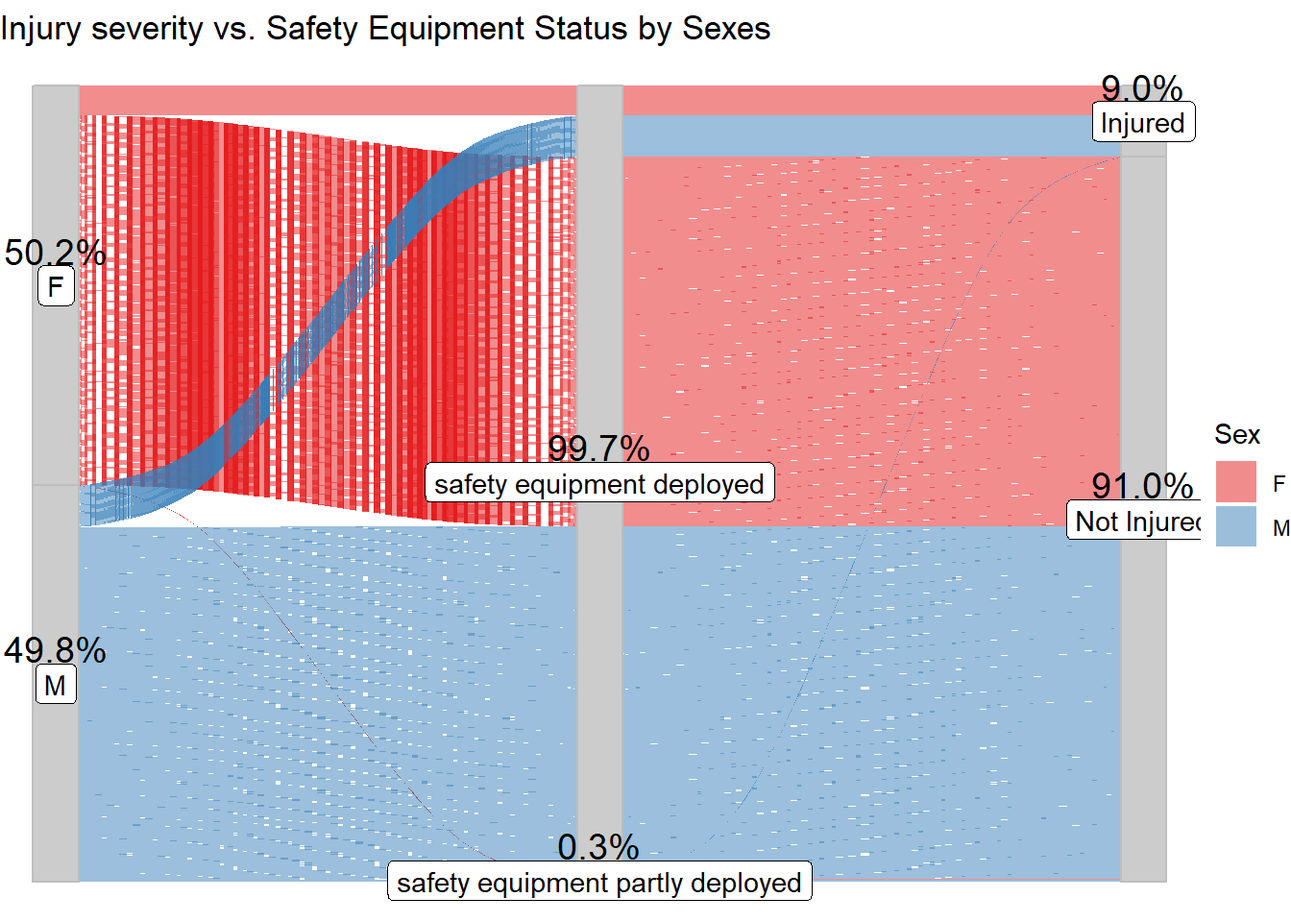
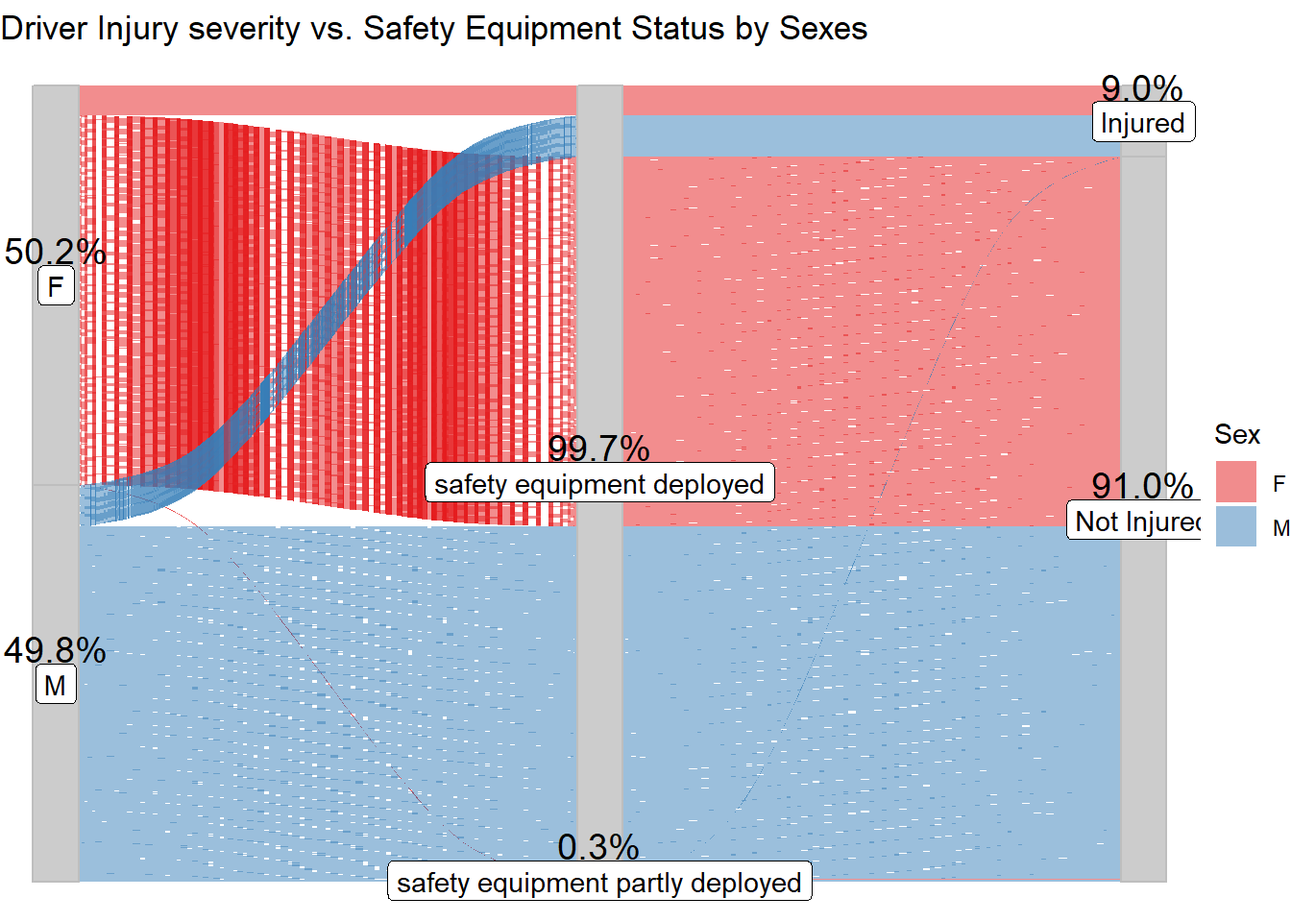
final!

diff --git a/docs/missing-values.html b/docs/missing-values.html
@@ -82,14 +82,14 @@
 <li class="chapter" data-level="3.2" data-path="data-transformation.html"><a href="data-transformation.html#unify-missing-values"><i class="fa fa-check"></i><b>3.2</b> Unify Missing Values</a></li>
 </ul></li>
 <li class="chapter" data-level="4" data-path="missing-values.html"><a href="missing-values.html"><i class="fa fa-check"></i><b>4</b> Missing values</a><ul>
-<li class="chapter" data-level="4.1" data-path="missing-values.html"><a href="missing-values.html#vehicle"><i class="fa fa-check"></i><b>4.1</b> Vehicle</a></li>
-<li class="chapter" data-level="4.2" data-path="missing-values.html"><a href="missing-values.html#case"><i class="fa fa-check"></i><b>4.2</b> Case</a></li>
-<li class="chapter" data-level="4.3" data-path="missing-values.html"><a href="missing-values.html#individual"><i class="fa fa-check"></i><b>4.3</b> Individual</a></li>
+<li class="chapter" data-level="4.1" data-path="missing-values.html"><a href="missing-values.html#aspect-of-accident-vehicles"><i class="fa fa-check"></i><b>4.1</b> Aspect of Accident Vehicles</a></li>
+<li class="chapter" data-level="4.2" data-path="missing-values.html"><a href="missing-values.html#aspect-of-accident-cases"><i class="fa fa-check"></i><b>4.2</b> Aspect of Accident Cases</a></li>
+<li class="chapter" data-level="4.3" data-path="missing-values.html"><a href="missing-values.html#aspect-of-individuals-in-accidents"><i class="fa fa-check"></i><b>4.3</b> Aspect of Individuals in Accidents</a></li>
 </ul></li>
 <li class="chapter" data-level="5" data-path="results.html"><a href="results.html"><i class="fa fa-check"></i><b>5</b> Results</a><ul>
-<li class="chapter" data-level="5.1" data-path="results.html"><a href="results.html#vehicles"><i class="fa fa-check"></i><b>5.1</b> Vehicles</a></li>
-<li class="chapter" data-level="5.2" data-path="results.html"><a href="results.html#case-1"><i class="fa fa-check"></i><b>5.2</b> Case</a></li>
-<li class="chapter" data-level="5.3" data-path="results.html"><a href="results.html#individual-1"><i class="fa fa-check"></i><b>5.3</b> Individual</a></li>
+<li class="chapter" data-level="5.1" data-path="results.html"><a href="results.html#aspect-of-accident-vehicles-1"><i class="fa fa-check"></i><b>5.1</b> Aspect of Accident Vehicles</a></li>
+<li class="chapter" data-level="5.2" data-path="results.html"><a href="results.html#aspect-of-accident-cases-1"><i class="fa fa-check"></i><b>5.2</b> Aspect of Accident Cases</a></li>
+<li class="chapter" data-level="5.3" data-path="results.html"><a href="results.html#aspect-of-individuals-in-accidents-1"><i class="fa fa-check"></i><b>5.3</b> Aspect of Individuals in Accidents</a></li>
 </ul></li>
 <li class="chapter" data-level="6" data-path="interactive-component.html"><a href="interactive-component.html"><i class="fa fa-check"></i><b>6</b> Interactive component</a><ul>
 <li class="chapter" data-level="6.1" data-path="interactive-component.html"><a href="interactive-component.html#up-and-down-trend-of-monthly-number-of-accidents-in-new-york-state"><i class="fa fa-check"></i><b>6.1</b> Up-and-Down Trend of Monthly Number of Accidents in New York State</a></li>
@@ -125,19 +125,19 @@
 <div id="missing-values" class="section level1">
 <h1><span class="header-section-number">Chapter 4</span> Missing values</h1>
 <p>Since we have three datasets and they do not have a common key attribute for us to merge them together, we decided to visualize the missing values in three seperate graphs.</p>
-<div id="vehicle" class="section level2">
-<h2><span class="header-section-number">4.1</span> Vehicle</h2>
+<div id="aspect-of-accident-vehicles" class="section level2">
+<h2><span class="header-section-number">4.1</span> Aspect of Accident Vehicles</h2>
 <p><img src="finalproj_files/figure-html/unnamed-chunk-17-1.png" width="672" /></p>
 <p>In this dataset, “Type/Axles of Truck or Bus” has all missing values in the column. “Event Type” and “Contributing Factor 1&amp;2 Descriptions” also have many missing values. The other variables contain far less missing values.</p>
 </div>
-<div id="case" class="section level2">
-<h2><span class="header-section-number">4.2</span> Case</h2>
+<div id="aspect-of-accident-cases" class="section level2">
+<h2><span class="header-section-number">4.2</span> Aspect of Accident Cases</h2>
 <p><img src="finalproj_files/figure-html/unnamed-chunk-20-1.png" width="672" /></p>
 <p>In this dataset, We had 18 variables in total and we dropped 2 of them. The majority of “DOT.Reference.Marker.Location” are missing values and the “Pedestrian.Bicyclist.Action” contains a lot of “Not Applicable” values which cannot offer the information we want.</p>
 <p>After transformation and cleaning of the dataset, we got the final data for visualization use.</p>
 </div>
-<div id="individual" class="section level2">
-<h2><span class="header-section-number">4.3</span> Individual</h2>
+<div id="aspect-of-individuals-in-accidents" class="section level2">
+<h2><span class="header-section-number">4.3</span> Aspect of Individuals in Accidents</h2>
 <p><img src="finalproj_files/figure-html/unnamed-chunk-23-1.png" width="672" /></p>
 <p>In this dataset, we have 15 variables in total. “Transported_by”, “Injury Location”, “Victim Status” and “Injury Description” have high percent of missing data within the variable.</p>
 

diff --git a/docs/results.html b/docs/results.html
@@ -82,14 +82,14 @@
 <li class="chapter" data-level="3.2" data-path="data-transformation.html"><a href="data-transformation.html#unify-missing-values"><i class="fa fa-check"></i><b>3.2</b> Unify Missing Values</a></li>
 </ul></li>
 <li class="chapter" data-level="4" data-path="missing-values.html"><a href="missing-values.html"><i class="fa fa-check"></i><b>4</b> Missing values</a><ul>
-<li class="chapter" data-level="4.1" data-path="missing-values.html"><a href="missing-values.html#vehicle"><i class="fa fa-check"></i><b>4.1</b> Vehicle</a></li>
-<li class="chapter" data-level="4.2" data-path="missing-values.html"><a href="missing-values.html#case"><i class="fa fa-check"></i><b>4.2</b> Case</a></li>
-<li class="chapter" data-level="4.3" data-path="missing-values.html"><a href="missing-values.html#individual"><i class="fa fa-check"></i><b>4.3</b> Individual</a></li>
+<li class="chapter" data-level="4.1" data-path="missing-values.html"><a href="missing-values.html#aspect-of-accident-vehicles"><i class="fa fa-check"></i><b>4.1</b> Aspect of Accident Vehicles</a></li>
+<li class="chapter" data-level="4.2" data-path="missing-values.html"><a href="missing-values.html#aspect-of-accident-cases"><i class="fa fa-check"></i><b>4.2</b> Aspect of Accident Cases</a></li>
+<li class="chapter" data-level="4.3" data-path="missing-values.html"><a href="missing-values.html#aspect-of-individuals-in-accidents"><i class="fa fa-check"></i><b>4.3</b> Aspect of Individuals in Accidents</a></li>
 </ul></li>
 <li class="chapter" data-level="5" data-path="results.html"><a href="results.html"><i class="fa fa-check"></i><b>5</b> Results</a><ul>
-<li class="chapter" data-level="5.1" data-path="results.html"><a href="results.html#vehicles"><i class="fa fa-check"></i><b>5.1</b> Vehicles</a></li>
-<li class="chapter" data-level="5.2" data-path="results.html"><a href="results.html#case-1"><i class="fa fa-check"></i><b>5.2</b> Case</a></li>
-<li class="chapter" data-level="5.3" data-path="results.html"><a href="results.html#individual-1"><i class="fa fa-check"></i><b>5.3</b> Individual</a></li>
+<li class="chapter" data-level="5.1" data-path="results.html"><a href="results.html#aspect-of-accident-vehicles-1"><i class="fa fa-check"></i><b>5.1</b> Aspect of Accident Vehicles</a></li>
+<li class="chapter" data-level="5.2" data-path="results.html"><a href="results.html#aspect-of-accident-cases-1"><i class="fa fa-check"></i><b>5.2</b> Aspect of Accident Cases</a></li>
+<li class="chapter" data-level="5.3" data-path="results.html"><a href="results.html#aspect-of-individuals-in-accidents-1"><i class="fa fa-check"></i><b>5.3</b> Aspect of Individuals in Accidents</a></li>
 </ul></li>
 <li class="chapter" data-level="6" data-path="interactive-component.html"><a href="interactive-component.html"><i class="fa fa-check"></i><b>6</b> Interactive component</a><ul>
 <li class="chapter" data-level="6.1" data-path="interactive-component.html"><a href="interactive-component.html#up-and-down-trend-of-monthly-number-of-accidents-in-new-york-state"><i class="fa fa-check"></i><b>6.1</b> Up-and-Down Trend of Monthly Number of Accidents in New York State</a></li>
@@ -125,8 +125,8 @@
 <div id="results" class="section level1">
 <h1><span class="header-section-number">Chapter 5</span> Results</h1>
 <p>In this part, we will show our EDA results in three categories related to vehicles involved in accidents, cases information and individuals in accidents.</p>
-<div id="vehicles" class="section level2">
-<h2><span class="header-section-number">5.1</span> Vehicles</h2>
+<div id="aspect-of-accident-vehicles-1" class="section level2">
+<h2><span class="header-section-number">5.1</span> Aspect of Accident Vehicles</h2>
 <p><img src="finalproj_files/figure-html/unnamed-chunk-27-1.png" width="672" /></p>
 <p>From this plot, we can see:</p>
 <ul>
@@ -170,8 +170,8 @@ From this plot, we can see:</p>
 <li>There are a few cars with “5 Engine Cylinder” involved in accidents.</li>
 </ul>
 </div>
-<div id="case-1" class="section level2">
-<h2><span class="header-section-number">5.2</span> Case</h2>
+<div id="aspect-of-accident-cases-1" class="section level2">
+<h2><span class="header-section-number">5.2</span> Aspect of Accident Cases</h2>
 <p><img src="finalproj_files/figure-html/unnamed-chunk-32-1.png" width="672" /></p>
 <p>For the case data, we looked into the count of different types of accidents at first. We can see apparently from the bar plot that:</p>
 <ul>
@@ -213,8 +213,8 @@ From this plot, we can see:</p>
 <li>When the road is on “Hill Crest”, there are only a few accidents. Of course there are much less these road types. However, on hill crest, drivers are also drive more carefully than usual.</li>
 </ul>
 </div>
-<div id="individual-1" class="section level2">
-<h2><span class="header-section-number">5.3</span> Individual</h2>
+<div id="aspect-of-individuals-in-accidents-1" class="section level2">
+<h2><span class="header-section-number">5.3</span> Aspect of Individuals in Accidents</h2>
 <p><img src="finalproj_files/figure-html/unnamed-chunk-37-1.png" width="672" /></p>
 <p>From this plot, we can see that:</p>
 <ul>

diff --git a/docs/data-sources.html b/docs/data-sources.html
@@ -82,14 +82,14 @@
 <li class="chapter" data-level="3.2" data-path="data-transformation.html"><a href="data-transformation.html#unify-missing-values"><i class="fa fa-check"></i><b>3.2</b> Unify Missing Values</a></li>
 </ul></li>
 <li class="chapter" data-level="4" data-path="missing-values.html"><a href="missing-values.html"><i class="fa fa-check"></i><b>4</b> Missing values</a><ul>
-<li class="chapter" data-level="4.1" data-path="missing-values.html"><a href="missing-values.html#vehicle"><i class="fa fa-check"></i><b>4.1</b> Vehicle</a></li>
-<li class="chapter" data-level="4.2" data-path="missing-values.html"><a href="missing-values.html#case"><i class="fa fa-check"></i><b>4.2</b> Case</a></li>
-<li class="chapter" data-level="4.3" data-path="missing-values.html"><a href="missing-values.html#individual"><i class="fa fa-check"></i><b>4.3</b> Individual</a></li>
+<li class="chapter" data-level="4.1" data-path="missing-values.html"><a href="missing-values.html#aspect-of-accident-vehicles"><i class="fa fa-check"></i><b>4.1</b> Aspect of Accident Vehicles</a></li>
+<li class="chapter" data-level="4.2" data-path="missing-values.html"><a href="missing-values.html#aspect-of-accident-cases"><i class="fa fa-check"></i><b>4.2</b> Aspect of Accident Cases</a></li>
+<li class="chapter" data-level="4.3" data-path="missing-values.html"><a href="missing-values.html#aspect-of-individuals-in-accidents"><i class="fa fa-check"></i><b>4.3</b> Aspect of Individuals in Accidents</a></li>
 </ul></li>
 <li class="chapter" data-level="5" data-path="results.html"><a href="results.html"><i class="fa fa-check"></i><b>5</b> Results</a><ul>
-<li class="chapter" data-level="5.1" data-path="results.html"><a href="results.html#vehicles"><i class="fa fa-check"></i><b>5.1</b> Vehicles</a></li>
-<li class="chapter" data-level="5.2" data-path="results.html"><a href="results.html#case-1"><i class="fa fa-check"></i><b>5.2</b> Case</a></li>
-<li class="chapter" data-level="5.3" data-path="results.html"><a href="results.html#individual-1"><i class="fa fa-check"></i><b>5.3</b> Individual</a></li>
+<li class="chapter" data-level="5.1" data-path="results.html"><a href="results.html#aspect-of-accident-vehicles-1"><i class="fa fa-check"></i><b>5.1</b> Aspect of Accident Vehicles</a></li>
+<li class="chapter" data-level="5.2" data-path="results.html"><a href="results.html#aspect-of-accident-cases-1"><i class="fa fa-check"></i><b>5.2</b> Aspect of Accident Cases</a></li>
+<li class="chapter" data-level="5.3" data-path="results.html"><a href="results.html#aspect-of-individuals-in-accidents-1"><i class="fa fa-check"></i><b>5.3</b> Aspect of Individuals in Accidents</a></li>
 </ul></li>
 <li class="chapter" data-level="6" data-path="interactive-component.html"><a href="interactive-component.html"><i class="fa fa-check"></i><b>6</b> Interactive component</a><ul>
 <li class="chapter" data-level="6.1" data-path="interactive-component.html"><a href="interactive-component.html#up-and-down-trend-of-monthly-number-of-accidents-in-new-york-state"><i class="fa fa-check"></i><b>6.1</b> Up-and-Down Trend of Monthly Number of Accidents in New York State</a></li>
@@ -183,11 +183,11 @@ However, some variable have large amount of missing values, which cause some tro
 2. Any environmental factors (weather condition, road surface, lighting condition) related to accidents?</p>
 <p>About Drivers:
 1. Association between Injured severity and safety equipment?
-2. Association between Injured severity and seating position?</p>
+2. Association between Injured severity and sexes?</p>
 <p>About Vehicle:
 1. Relationship between number of accidents and Vehicle year?
-2. Relationship between number of accidents and number of occupants?
-3. Relationship between number of accidents and number of vehicle cylinder?</p>
+2. Relationship between number of accidents and number of vehicle cylinder?</p>
+<p><strong>More specific questions are explored in the EDA part.</strong></p>
 <p>The original data contains more than 800,000 samples each. For the convenience of later use, we did some random sampling. Before diving into the visualization work, we found some potential problems around the our data. Firstly, there are some misssing values in the data. Secondly, we need to select some variales that contribute the most to car crashes. Lastly, since most of our variables are categorical, we need to find better methods for visualization.</p>
 
 </div>

diff --git a/docs/conclusion.html b/docs/conclusion.html
@@ -82,14 +82,14 @@
 <li class="chapter" data-level="3.2" data-path="data-transformation.html"><a href="data-transformation.html#unify-missing-values"><i class="fa fa-check"></i><b>3.2</b> Unify Missing Values</a></li>
 </ul></li>
 <li class="chapter" data-level="4" data-path="missing-values.html"><a href="missing-values.html"><i class="fa fa-check"></i><b>4</b> Missing values</a><ul>
-<li class="chapter" data-level="4.1" data-path="missing-values.html"><a href="missing-values.html#vehicle"><i class="fa fa-check"></i><b>4.1</b> Vehicle</a></li>
-<li class="chapter" data-level="4.2" data-path="missing-values.html"><a href="missing-values.html#case"><i class="fa fa-check"></i><b>4.2</b> Case</a></li>
-<li class="chapter" data-level="4.3" data-path="missing-values.html"><a href="missing-values.html#individual"><i class="fa fa-check"></i><b>4.3</b> Individual</a></li>
+<li class="chapter" data-level="4.1" data-path="missing-values.html"><a href="missing-values.html#aspect-of-accident-vehicles"><i class="fa fa-check"></i><b>4.1</b> Aspect of Accident Vehicles</a></li>
+<li class="chapter" data-level="4.2" data-path="missing-values.html"><a href="missing-values.html#aspect-of-accident-cases"><i class="fa fa-check"></i><b>4.2</b> Aspect of Accident Cases</a></li>
+<li class="chapter" data-level="4.3" data-path="missing-values.html"><a href="missing-values.html#aspect-of-individuals-in-accidents"><i class="fa fa-check"></i><b>4.3</b> Aspect of Individuals in Accidents</a></li>
 </ul></li>
 <li class="chapter" data-level="5" data-path="results.html"><a href="results.html"><i class="fa fa-check"></i><b>5</b> Results</a><ul>
-<li class="chapter" data-level="5.1" data-path="results.html"><a href="results.html#vehicles"><i class="fa fa-check"></i><b>5.1</b> Vehicles</a></li>
-<li class="chapter" data-level="5.2" data-path="results.html"><a href="results.html#case-1"><i class="fa fa-check"></i><b>5.2</b> Case</a></li>
-<li class="chapter" data-level="5.3" data-path="results.html"><a href="results.html#individual-1"><i class="fa fa-check"></i><b>5.3</b> Individual</a></li>
+<li class="chapter" data-level="5.1" data-path="results.html"><a href="results.html#aspect-of-accident-vehicles-1"><i class="fa fa-check"></i><b>5.1</b> Aspect of Accident Vehicles</a></li>
+<li class="chapter" data-level="5.2" data-path="results.html"><a href="results.html#aspect-of-accident-cases-1"><i class="fa fa-check"></i><b>5.2</b> Aspect of Accident Cases</a></li>
+<li class="chapter" data-level="5.3" data-path="results.html"><a href="results.html#aspect-of-individuals-in-accidents-1"><i class="fa fa-check"></i><b>5.3</b> Aspect of Individuals in Accidents</a></li>
 </ul></li>
 <li class="chapter" data-level="6" data-path="interactive-component.html"><a href="interactive-component.html"><i class="fa fa-check"></i><b>6</b> Interactive component</a><ul>
 <li class="chapter" data-level="6.1" data-path="interactive-component.html"><a href="interactive-component.html#up-and-down-trend-of-monthly-number-of-accidents-in-new-york-state"><i class="fa fa-check"></i><b>6.1</b> Up-and-Down Trend of Monthly Number of Accidents in New York State</a></li>

diff --git a/docs/data-transformation.html b/docs/data-transformation.html
@@ -82,14 +82,14 @@
 <li class="chapter" data-level="3.2" data-path="data-transformation.html"><a href="data-transformation.html#unify-missing-values"><i class="fa fa-check"></i><b>3.2</b> Unify Missing Values</a></li>
 </ul></li>
 <li class="chapter" data-level="4" data-path="missing-values.html"><a href="missing-values.html"><i class="fa fa-check"></i><b>4</b> Missing values</a><ul>
-<li class="chapter" data-level="4.1" data-path="missing-values.html"><a href="missing-values.html#vehicle"><i class="fa fa-check"></i><b>4.1</b> Vehicle</a></li>
-<li class="chapter" data-level="4.2" data-path="missing-values.html"><a href="missing-values.html#case"><i class="fa fa-check"></i><b>4.2</b> Case</a></li>
-<li class="chapter" data-level="4.3" data-path="missing-values.html"><a href="missing-values.html#individual"><i class="fa fa-check"></i><b>4.3</b> Individual</a></li>
+<li class="chapter" data-level="4.1" data-path="missing-values.html"><a href="missing-values.html#aspect-of-accident-vehicles"><i class="fa fa-check"></i><b>4.1</b> Aspect of Accident Vehicles</a></li>
+<li class="chapter" data-level="4.2" data-path="missing-values.html"><a href="missing-values.html#aspect-of-accident-cases"><i class="fa fa-check"></i><b>4.2</b> Aspect of Accident Cases</a></li>
+<li class="chapter" data-level="4.3" data-path="missing-values.html"><a href="missing-values.html#aspect-of-individuals-in-accidents"><i class="fa fa-check"></i><b>4.3</b> Aspect of Individuals in Accidents</a></li>
 </ul></li>
 <li class="chapter" data-level="5" data-path="results.html"><a href="results.html"><i class="fa fa-check"></i><b>5</b> Results</a><ul>
-<li class="chapter" data-level="5.1" data-path="results.html"><a href="results.html#vehicles"><i class="fa fa-check"></i><b>5.1</b> Vehicles</a></li>
-<li class="chapter" data-level="5.2" data-path="results.html"><a href="results.html#case-1"><i class="fa fa-check"></i><b>5.2</b> Case</a></li>
-<li class="chapter" data-level="5.3" data-path="results.html"><a href="results.html#individual-1"><i class="fa fa-check"></i><b>5.3</b> Individual</a></li>
+<li class="chapter" data-level="5.1" data-path="results.html"><a href="results.html#aspect-of-accident-vehicles-1"><i class="fa fa-check"></i><b>5.1</b> Aspect of Accident Vehicles</a></li>
+<li class="chapter" data-level="5.2" data-path="results.html"><a href="results.html#aspect-of-accident-cases-1"><i class="fa fa-check"></i><b>5.2</b> Aspect of Accident Cases</a></li>
+<li class="chapter" data-level="5.3" data-path="results.html"><a href="results.html#aspect-of-individuals-in-accidents-1"><i class="fa fa-check"></i><b>5.3</b> Aspect of Individuals in Accidents</a></li>
 </ul></li>
 <li class="chapter" data-level="6" data-path="interactive-component.html"><a href="interactive-component.html"><i class="fa fa-check"></i><b>6</b> Interactive component</a><ul>
 <li class="chapter" data-level="6.1" data-path="interactive-component.html"><a href="interactive-component.html#up-and-down-trend-of-monthly-number-of-accidents-in-new-york-state"><i class="fa fa-check"></i><b>6.1</b> Up-and-Down Trend of Monthly Number of Accidents in New York State</a></li>

diff --git a/docs/index.html b/docs/index.html
@@ -82,14 +82,14 @@
 <li class="chapter" data-level="3.2" data-path="data-transformation.html"><a href="data-transformation.html#unify-missing-values"><i class="fa fa-check"></i><b>3.2</b> Unify Missing Values</a></li>
 </ul></li>
 <li class="chapter" data-level="4" data-path="missing-values.html"><a href="missing-values.html"><i class="fa fa-check"></i><b>4</b> Missing values</a><ul>
-<li class="chapter" data-level="4.1" data-path="missing-values.html"><a href="missing-values.html#vehicle"><i class="fa fa-check"></i><b>4.1</b> Vehicle</a></li>
-<li class="chapter" data-level="4.2" data-path="missing-values.html"><a href="missing-values.html#case"><i class="fa fa-check"></i><b>4.2</b> Case</a></li>
-<li class="chapter" data-level="4.3" data-path="missing-values.html"><a href="missing-values.html#individual"><i class="fa fa-check"></i><b>4.3</b> Individual</a></li>
+<li class="chapter" data-level="4.1" data-path="missing-values.html"><a href="missing-values.html#aspect-of-accident-vehicles"><i class="fa fa-check"></i><b>4.1</b> Aspect of Accident Vehicles</a></li>
+<li class="chapter" data-level="4.2" data-path="missing-values.html"><a href="missing-values.html#aspect-of-accident-cases"><i class="fa fa-check"></i><b>4.2</b> Aspect of Accident Cases</a></li>
+<li class="chapter" data-level="4.3" data-path="missing-values.html"><a href="missing-values.html#aspect-of-individuals-in-accidents"><i class="fa fa-check"></i><b>4.3</b> Aspect of Individuals in Accidents</a></li>
 </ul></li>
 <li class="chapter" data-level="5" data-path="results.html"><a href="results.html"><i class="fa fa-check"></i><b>5</b> Results</a><ul>
-<li class="chapter" data-level="5.1" data-path="results.html"><a href="results.html#vehicles"><i class="fa fa-check"></i><b>5.1</b> Vehicles</a></li>
-<li class="chapter" data-level="5.2" data-path="results.html"><a href="results.html#case-1"><i class="fa fa-check"></i><b>5.2</b> Case</a></li>
-<li class="chapter" data-level="5.3" data-path="results.html"><a href="results.html#individual-1"><i class="fa fa-check"></i><b>5.3</b> Individual</a></li>
+<li class="chapter" data-level="5.1" data-path="results.html"><a href="results.html#aspect-of-accident-vehicles-1"><i class="fa fa-check"></i><b>5.1</b> Aspect of Accident Vehicles</a></li>
+<li class="chapter" data-level="5.2" data-path="results.html"><a href="results.html#aspect-of-accident-cases-1"><i class="fa fa-check"></i><b>5.2</b> Aspect of Accident Cases</a></li>
+<li class="chapter" data-level="5.3" data-path="results.html"><a href="results.html#aspect-of-individuals-in-accidents-1"><i class="fa fa-check"></i><b>5.3</b> Aspect of Individuals in Accidents</a></li>
 </ul></li>
 <li class="chapter" data-level="6" data-path="interactive-component.html"><a href="interactive-component.html"><i class="fa fa-check"></i><b>6</b> Interactive component</a><ul>
 <li class="chapter" data-level="6.1" data-path="interactive-component.html"><a href="interactive-component.html#up-and-down-trend-of-monthly-number-of-accidents-in-new-york-state"><i class="fa fa-check"></i><b>6.1</b> Up-and-Down Trend of Monthly Number of Accidents in New York State</a></li>

diff --git a/docs/interactive-component.html b/docs/interactive-component.html
@@ -82,14 +82,14 @@
 <li class="chapter" data-level="3.2" data-path="data-transformation.html"><a href="data-transformation.html#unify-missing-values"><i class="fa fa-check"></i><b>3.2</b> Unify Missing Values</a></li>
 </ul></li>
 <li class="chapter" data-level="4" data-path="missing-values.html"><a href="missing-values.html"><i class="fa fa-check"></i><b>4</b> Missing values</a><ul>
-<li class="chapter" data-level="4.1" data-path="missing-values.html"><a href="missing-values.html#vehicle"><i class="fa fa-check"></i><b>4.1</b> Vehicle</a></li>
-<li class="chapter" data-level="4.2" data-path="missing-values.html"><a href="missing-values.html#case"><i class="fa fa-check"></i><b>4.2</b> Case</a></li>
-<li class="chapter" data-level="4.3" data-path="missing-values.html"><a href="missing-values.html#individual"><i class="fa fa-check"></i><b>4.3</b> Individual</a></li>
+<li class="chapter" data-level="4.1" data-path="missing-values.html"><a href="missing-values.html#aspect-of-accident-vehicles"><i class="fa fa-check"></i><b>4.1</b> Aspect of Accident Vehicles</a></li>
+<li class="chapter" data-level="4.2" data-path="missing-values.html"><a href="missing-values.html#aspect-of-accident-cases"><i class="fa fa-check"></i><b>4.2</b> Aspect of Accident Cases</a></li>
+<li class="chapter" data-level="4.3" data-path="missing-values.html"><a href="missing-values.html#aspect-of-individuals-in-accidents"><i class="fa fa-check"></i><b>4.3</b> Aspect of Individuals in Accidents</a></li>
 </ul></li>
 <li class="chapter" data-level="5" data-path="results.html"><a href="results.html"><i class="fa fa-check"></i><b>5</b> Results</a><ul>
-<li class="chapter" data-level="5.1" data-path="results.html"><a href="results.html#vehicles"><i class="fa fa-check"></i><b>5.1</b> Vehicles</a></li>
-<li class="chapter" data-level="5.2" data-path="results.html"><a href="results.html#case-1"><i class="fa fa-check"></i><b>5.2</b> Case</a></li>
-<li class="chapter" data-level="5.3" data-path="results.html"><a href="results.html#individual-1"><i class="fa fa-check"></i><b>5.3</b> Individual</a></li>
+<li class="chapter" data-level="5.1" data-path="results.html"><a href="results.html#aspect-of-accident-vehicles-1"><i class="fa fa-check"></i><b>5.1</b> Aspect of Accident Vehicles</a></li>
+<li class="chapter" data-level="5.2" data-path="results.html"><a href="results.html#aspect-of-accident-cases-1"><i class="fa fa-check"></i><b>5.2</b> Aspect of Accident Cases</a></li>
+<li class="chapter" data-level="5.3" data-path="results.html"><a href="results.html#aspect-of-individuals-in-accidents-1"><i class="fa fa-check"></i><b>5.3</b> Aspect of Individuals in Accidents</a></li>
 </ul></li>
 <li class="chapter" data-level="6" data-path="interactive-component.html"><a href="interactive-component.html"><i class="fa fa-check"></i><b>6</b> Interactive component</a><ul>
 <li class="chapter" data-level="6.1" data-path="interactive-component.html"><a href="interactive-component.html#up-and-down-trend-of-monthly-number-of-accidents-in-new-york-state"><i class="fa fa-check"></i><b>6.1</b> Up-and-Down Trend of Monthly Number of Accidents in New York State</a></li>
